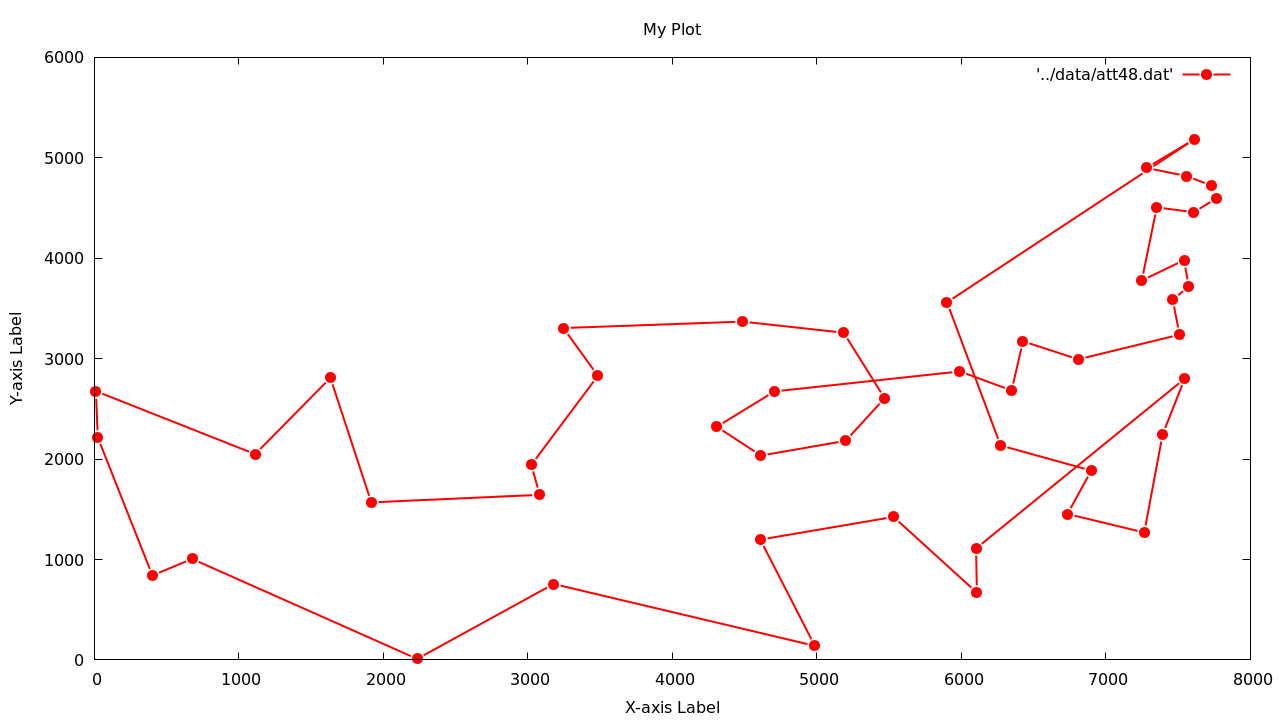
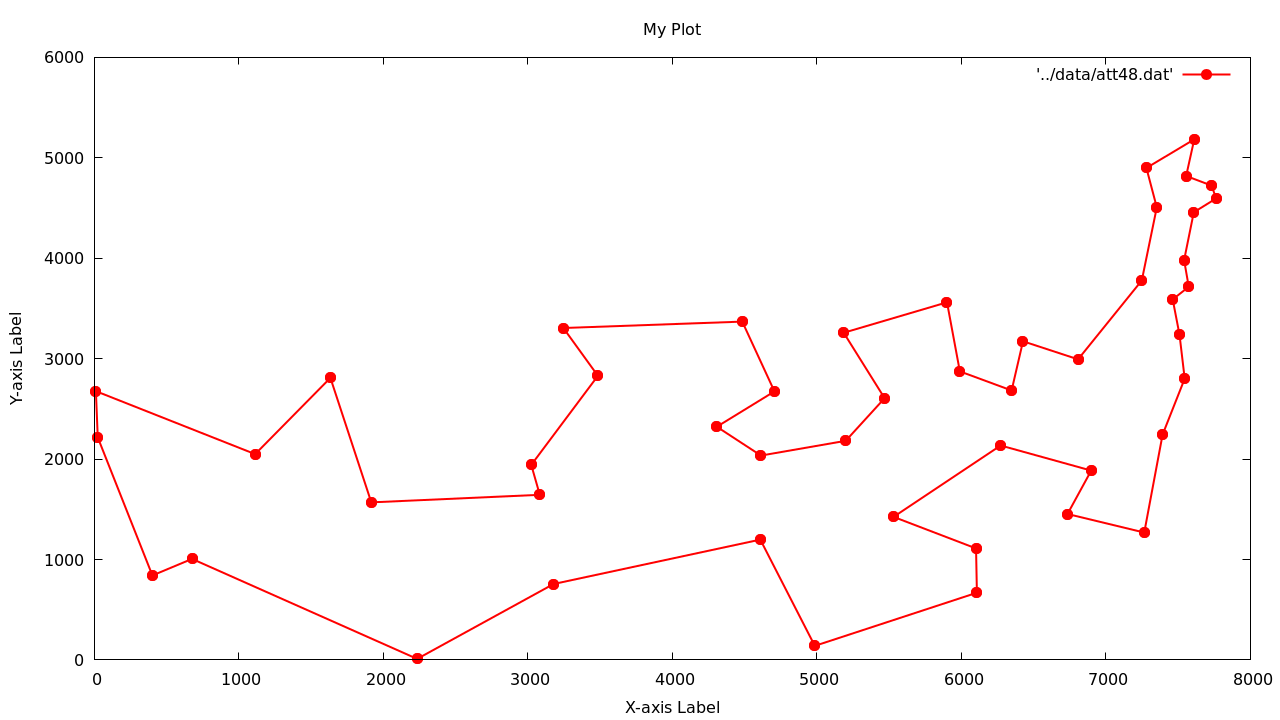
implement 2opt

diff --git a/src/heuristics.c b/src/heuristics.c
@@ -67,7 +67,7 @@ double greedy(instance* inst, int start_node) {
     //update model solution
     update_solution(z, solution, inst);
 
-    //printf("Start node [%d] - Solution value: %f\n", start_node, z);
+    printf("Start node [%d] - Solution value: %f\n", start_node, z);
     
     return z;
 }
@@ -286,4 +286,80 @@ void grasp_iterative(instance* inst) {
     }
 
     printf("Grasp heuristic - Best starting node = [%d] with p1 = [%f] - Cost = [%f]\n", best_node, p, best_cost);
+}
+
+void alg_2opt(instance* inst) {
+    //get instance solution and objective value
+    int* solution = calloc(inst->nnodes, sizeof(int));
+    memcpy(solution, inst->best_sol, inst->nnodes * sizeof(int));
+
+    double z = inst->zbest;
+
+    int improve = 1;
+    while(improve) {
+        improve = 0;
+
+        //Consider current crossing edges A-D and C-B
+        //save nodes involved in the edges
+        int nodeA = -1;
+        int nodeB = -1;
+        int nodeC = -1;
+        int nodeD = -1;
+
+        double best_delta = 0;
+
+        //loop through all edges
+        for(int i=0; i<inst->nnodes-1; ++i) {
+            for(int j=i+1; j<inst->nnodes; ++j) {
+                //skip consecutive edges
+                if(solution[i] == j || solution[j] == i)
+                    continue;
+
+                //current edges weight of A-D and C-B
+                double curr_weight = get_cost(i, solution[i], inst) + get_cost(j, solution[j], inst);
+                //weight considering new edges C-A and B-D
+                double new_weight = get_cost(j, i, inst) + get_cost(solution[j], solution[i], inst);
+                double delta = curr_weight - new_weight;
+
+                //save new best edges to swap
+                if(new_weight < curr_weight && delta > best_delta) {
+                    //printf("New better edge found between (%d, %d) and (%d, %d) with delta = [%f]\n", j, i, solution[j], solution[i], delta);
+                    improve = 1;
+                    nodeA = i;
+                    nodeC = j;
+                    nodeD = solution[i];
+                    nodeB = solution[j];
+                    best_delta = delta;
+                }
+            }
+        }
+        if(!improve)
+            break;
+
+        //reverse path from node B to node A
+        int prev = nodeB;
+        int node = solution[nodeB];
+        while(node != nodeD) {
+            int next_node = solution[node];
+            solution[node] = prev;
+            prev = node;
+            //update node
+            node = next_node;
+        }
+
+        //set new edges C-A B-D
+        solution[nodeB] = nodeD;
+        solution[nodeC] = nodeA;
+
+        check_solution(solution, inst->nnodes);
+
+        //update objective
+        z -= best_delta;
+    }
+
+    printf("COMPLETED 2-OPT with z = [%f]\n\n", z);
+
+    update_solution(z, solution, inst);
+
+    free(solution);
 }

diff --git a/src/plot.c b/src/plot.c
@@ -63,8 +63,8 @@ void create_command(char* output_path, instance* inst) {
     fprintf(cf, "set xlabel 'X-axis Label'\n");
     fprintf(cf, "set ylabel 'Y-axis Label'\n\n");
 
-    fprintf(cf, "set style line 1 lc rgb '#ff0000' lt 1 lw 2 pt 7 pi -1 ps 1.5\n");
-    fprintf(cf, "set pointintervalbox 2\n\n");
+    fprintf(cf, "set style line 1 lc rgb '#ff0000' lt 1 lw 2 pt 7 pi -1 ps 1.5\n\n");
+    //fprintf(cf, "set pointintervalbox 2\n\n");
 
     fprintf(cf, "plot '%s' with linespoints ls 1", data_path);
 

diff --git a/src/main.c b/src/main.c
@@ -22,10 +22,12 @@ int main(int argc, char** argv) {
     parse_model(&inst);
 
     //execute algorithm
-    //greedy(&inst, 0);
-    greedy_iterative(&inst);
+    greedy(&inst, 20);
+    //greedy_iterative(&inst);
 
     //extra_mileage(&inst);
+    
+    alg_2opt(&inst);
     
     //grasp_iterative(&inst);
 

diff --git a/include/heuristics.h b/include/heuristics.h
@@ -44,3 +44,10 @@ double grasp(instance* inst, int start_node, double p);
  * @param inst model instance
 */
 void grasp_iterative(instance* inst);
+
+/**
+ * 2-opt algorithm
+ * 
+ * @param inst model instance
+*/
+void alg_2opt(instance* inst);
